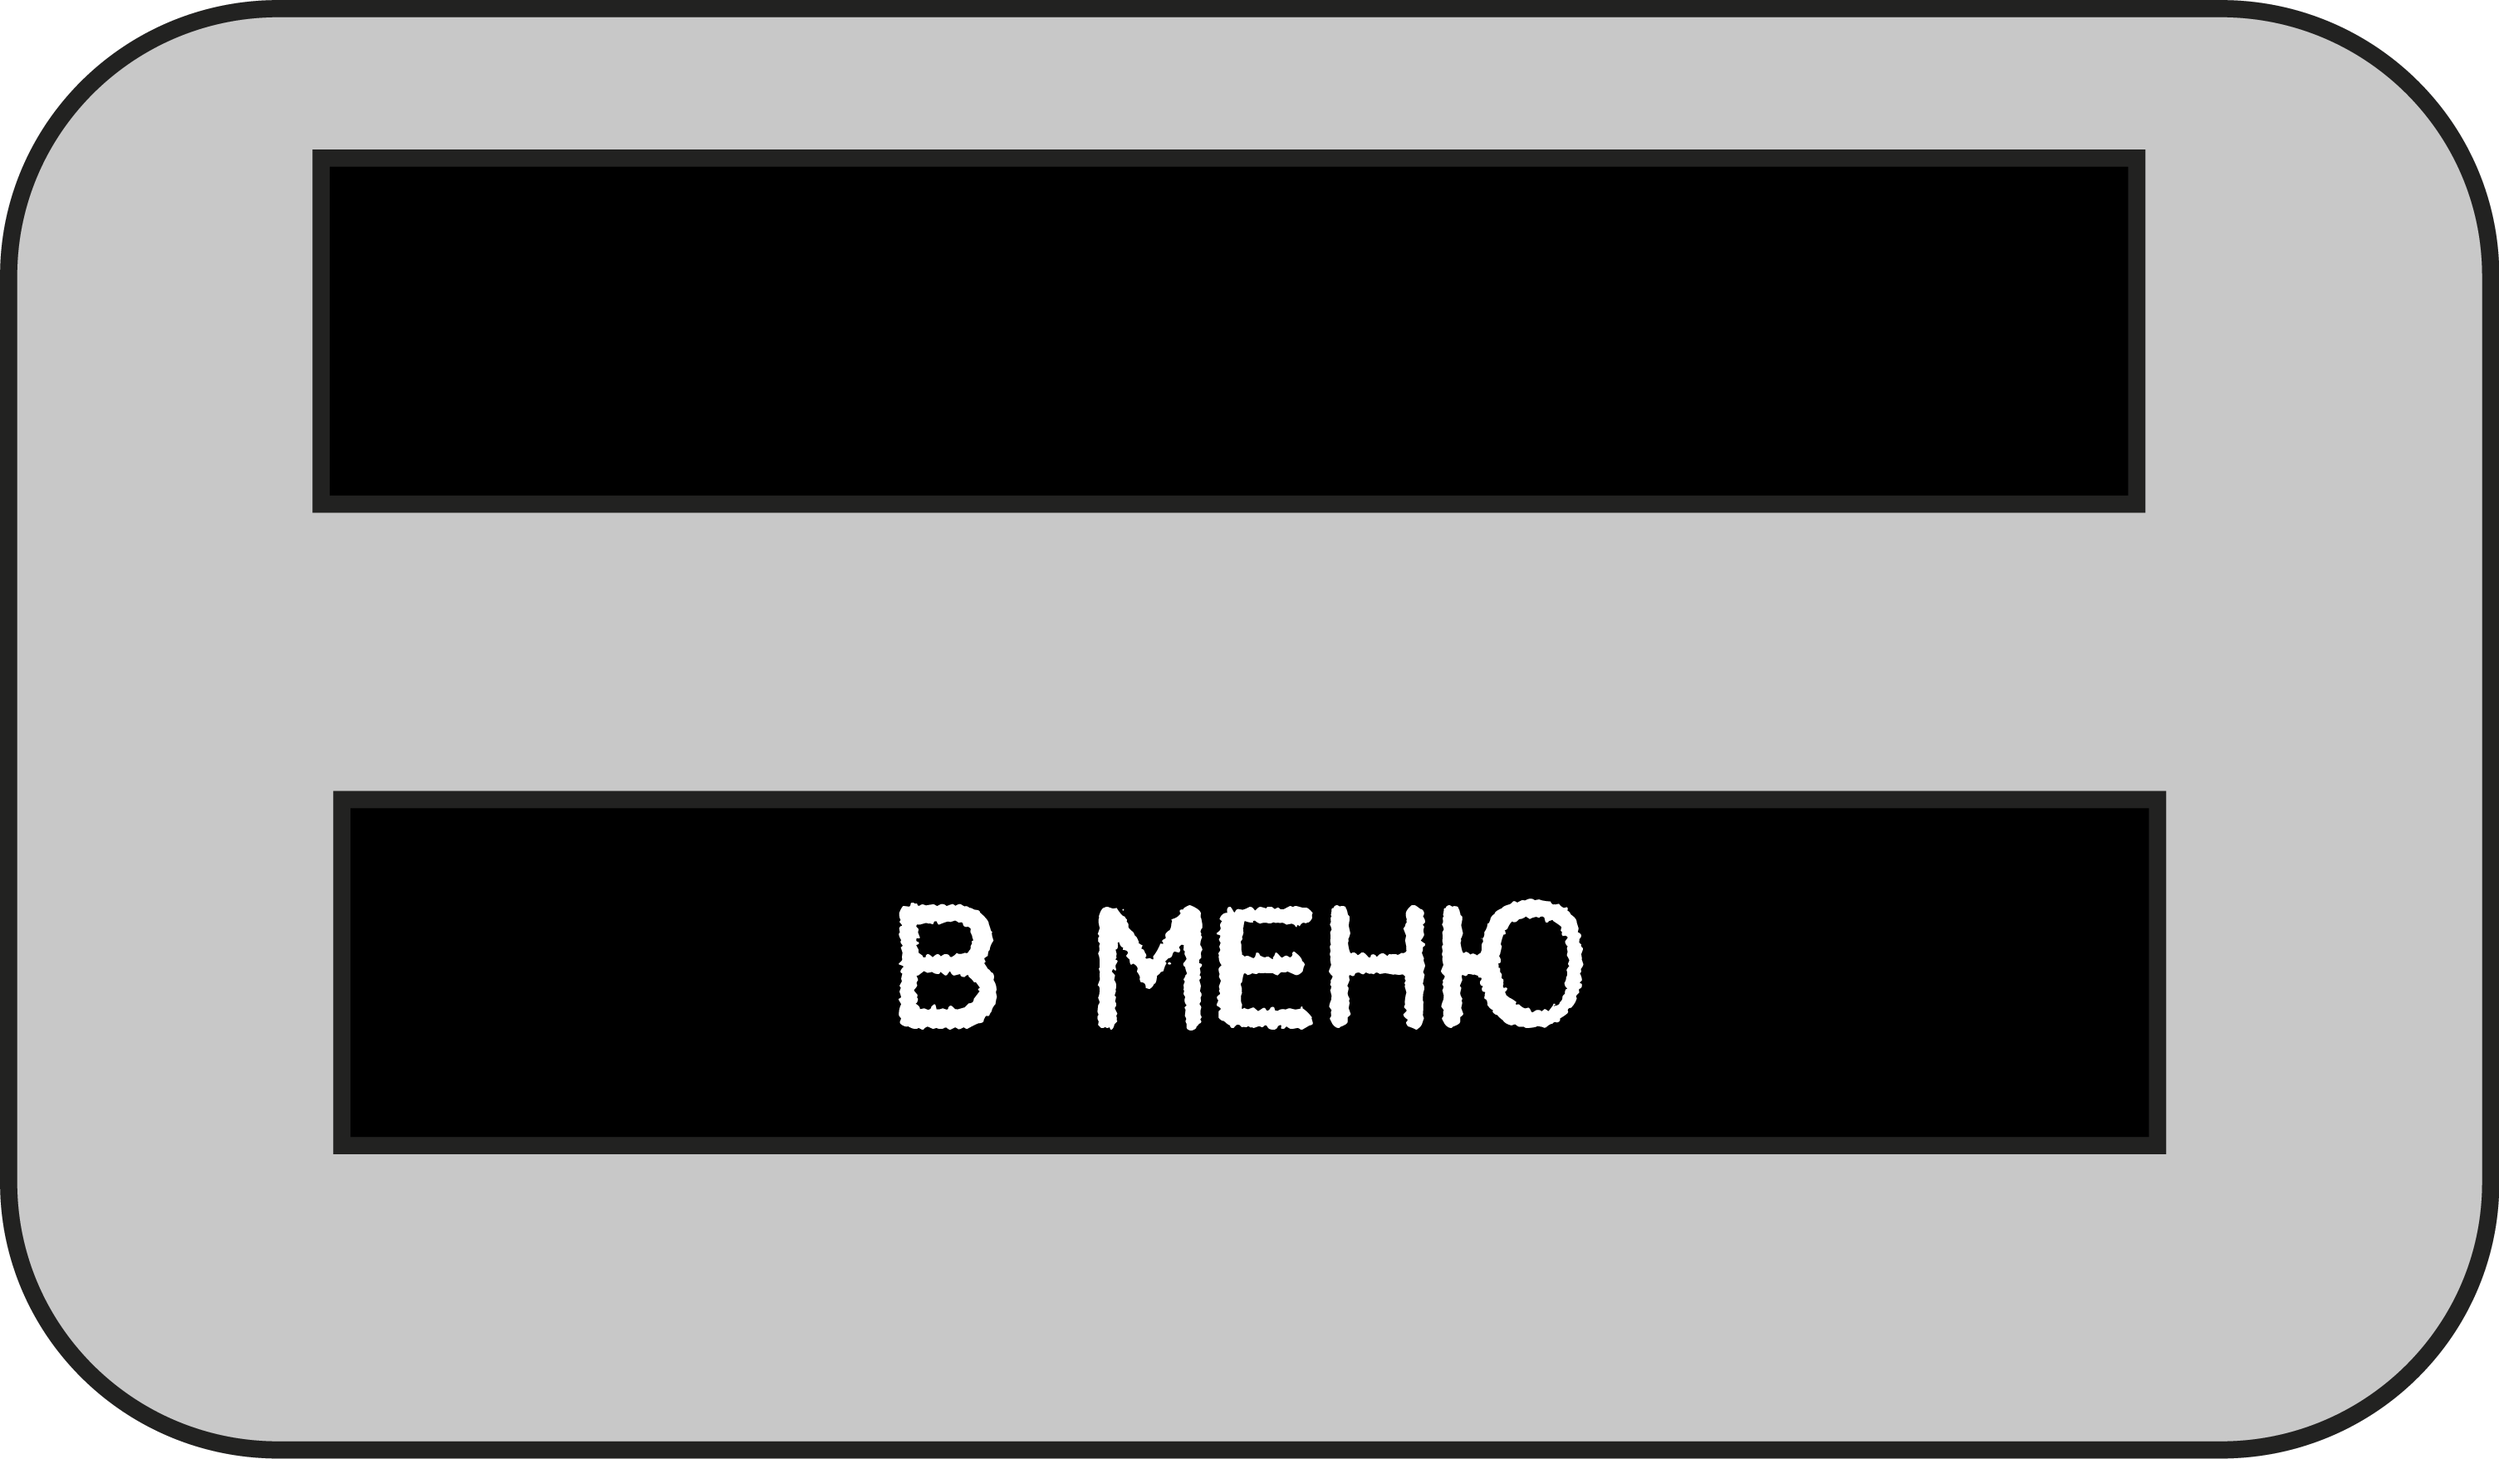
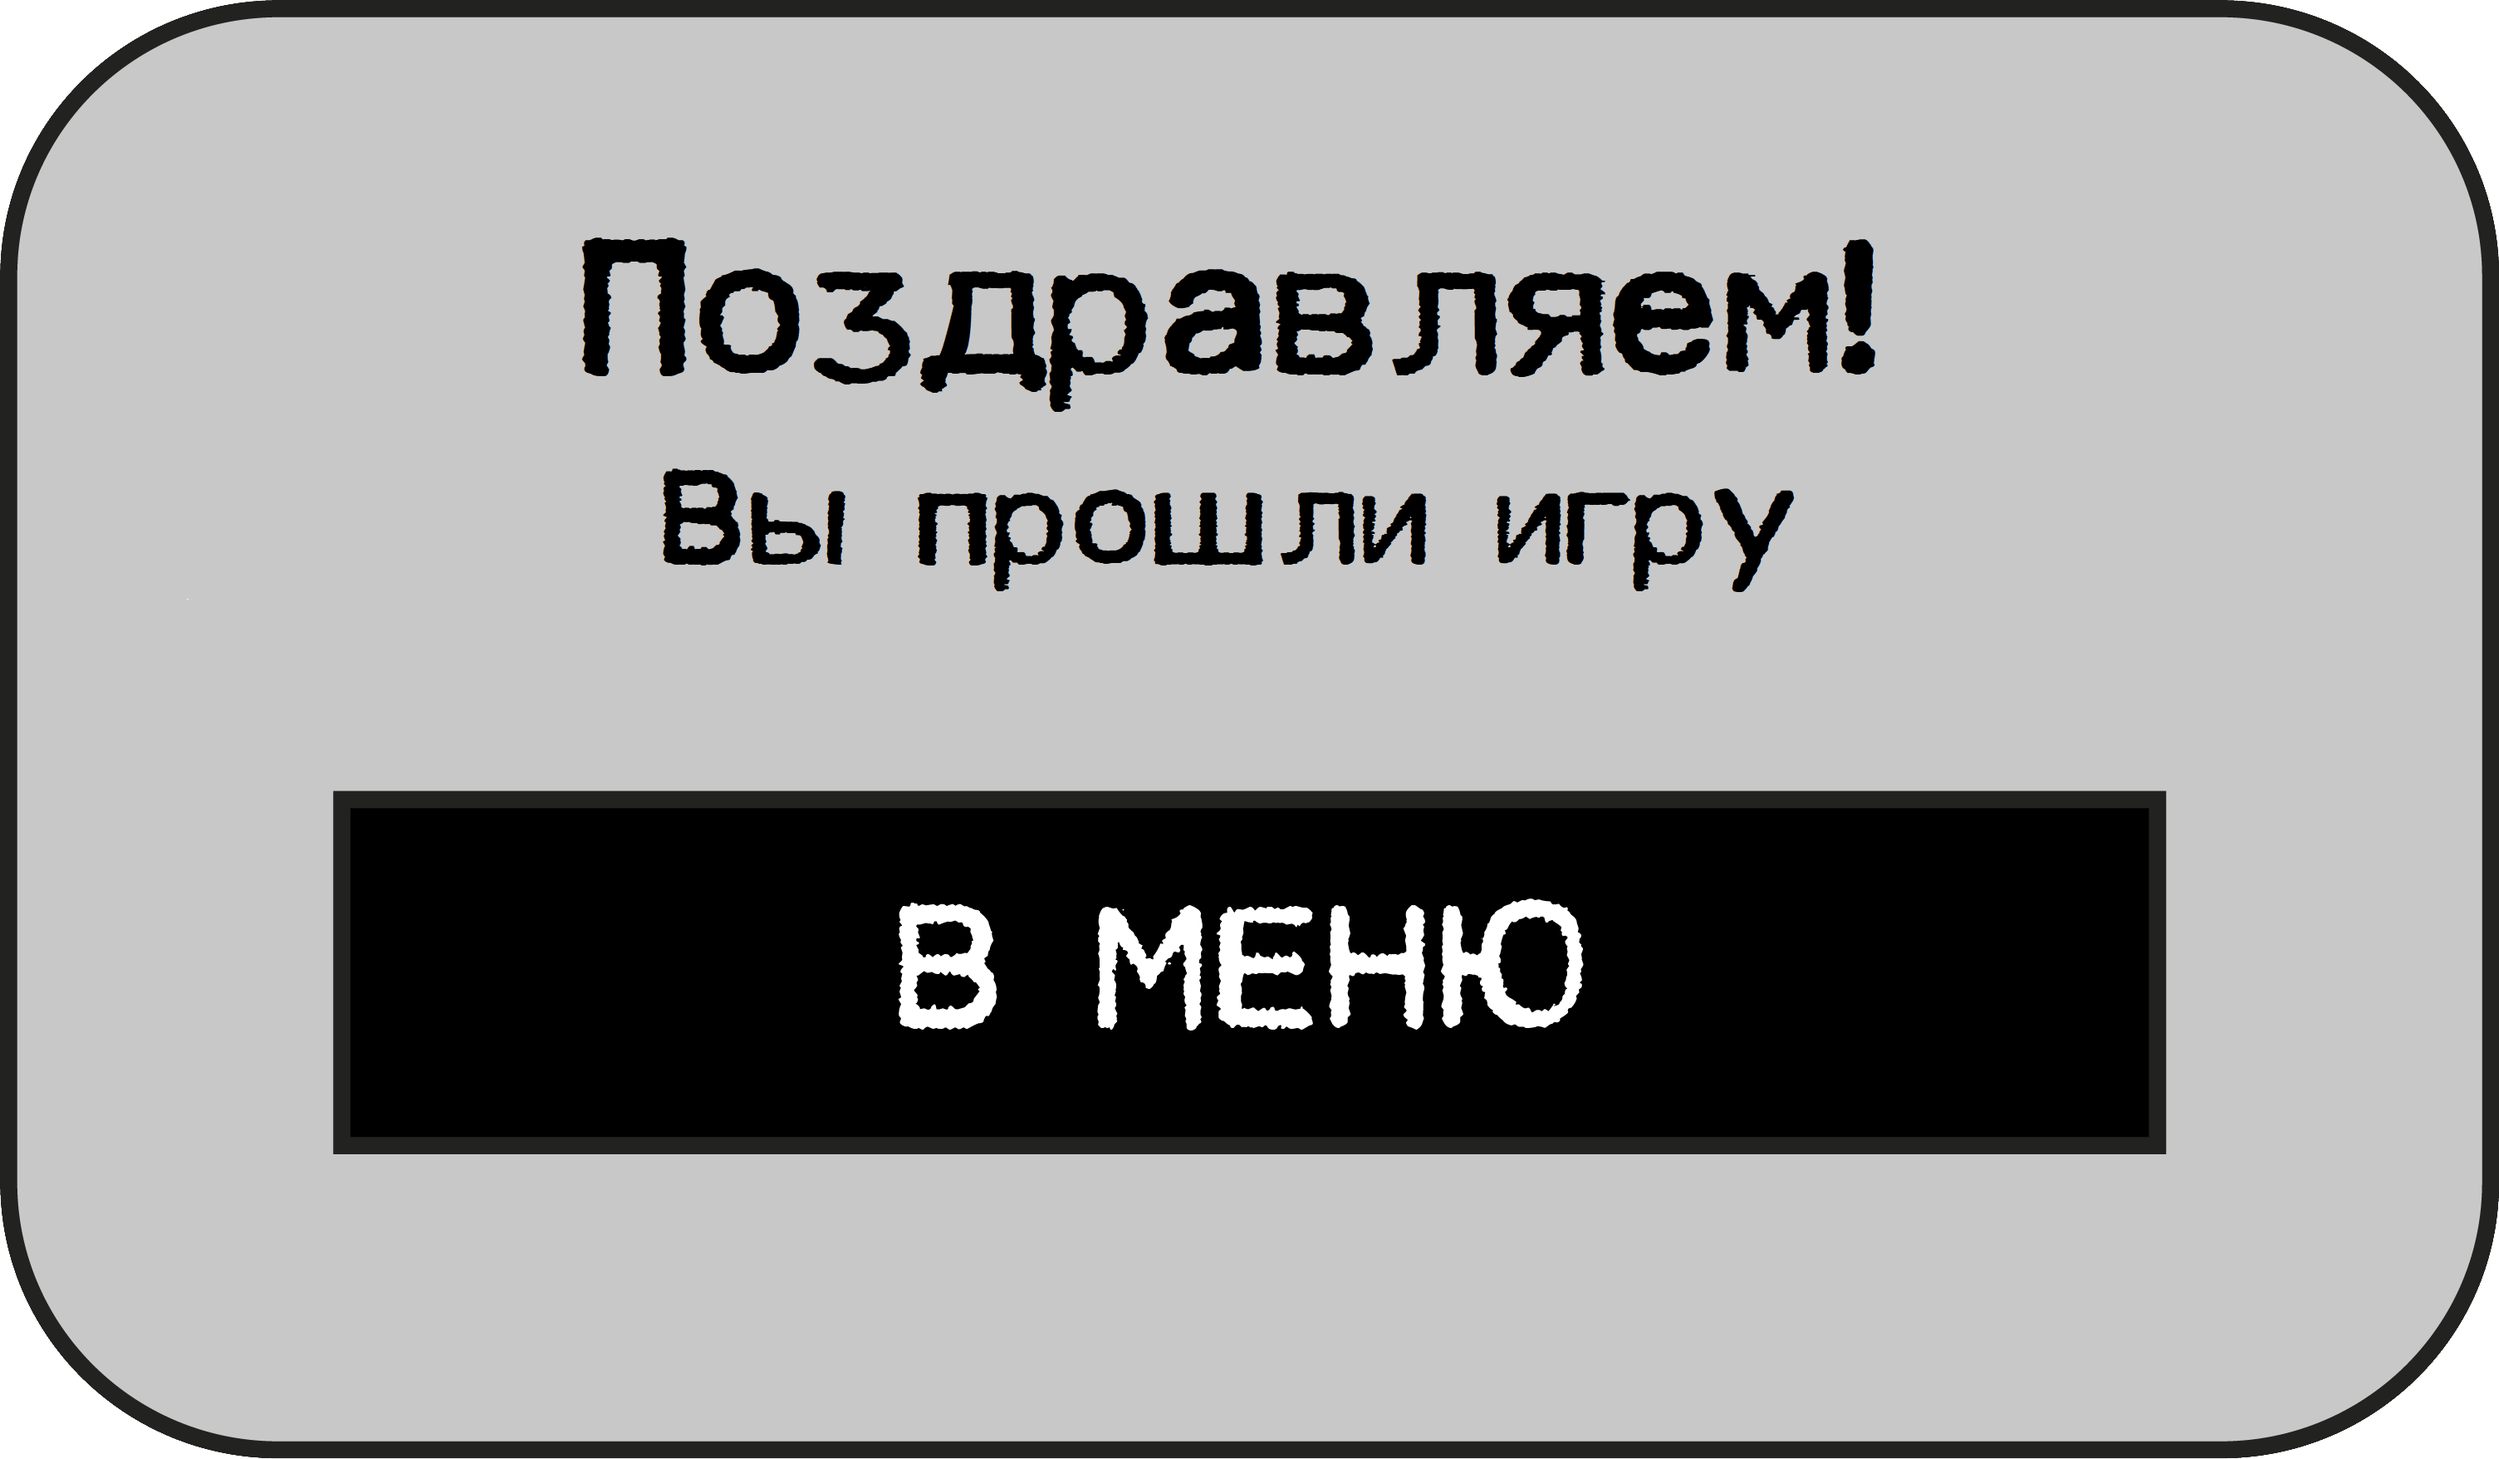
Вроде почти все, напиши что те не понравилось

Changed region(s): [[0.125, 0.0922, 0.8747, 0.3995], [0.9997, 0.7991, 1.0, 0.8298], [0.9997, 0.1537, 1.0, 0.1844]]

diff --git a/main.py b/main.py
@@ -250,8 +250,11 @@ class PauseMenu(Menu):
                                     im.get_height() // 8))
         self.rect = self.image.get_rect()
         self.rect.x, self.rect.y = 200, 150
-        self.buttons = [Button(pygame.Rect(246, 174, 276, 51), lambda: False),  # Продолжить
-                        Button(pygame.Rect(253, 269, 271, 55), start_menu)]  # В меню
+        if restart_menu:
+            self.buttons = [Button(pygame.Rect(253, 269, 271, 55), start_menu)]  # В меню
+        else:
+            self.buttons = [Button(pygame.Rect(246, 174, 276, 51), lambda: False),  # Продолжить
+                            Button(pygame.Rect(253, 269, 271, 55), start_menu)]  # В меню
 
     def update(self):
         pygame.sprite.Sprite.update(self)
@@ -435,6 +438,7 @@ def main():
     global platforms
     global numb
 
+    fon = ["Portal_fon.jpg", "Portal_fon2.jpg", "Portal_fon3.jpg"]
     level = ['map.map', 'map2.map', 'map3.map']
     hero_coords = [(50, 864), (1700, 64), (1000, 864)]
 
@@ -442,7 +446,8 @@ def main():
     screen = pygame.display.set_mode(SIZE)
     clock = pygame.time.Clock()
     pygame.display.set_caption("Portal 2D")
-    if numb == 0:
+    if numb == 0 or numb == 3:
+        numb = 0
         menu()  # запуск меню
 
     # группа спрайтов
@@ -451,10 +456,9 @@ def main():
 
     # установка уровня
     background, platforms, level_map = setup_level(level[numb], hero_coords[numb])
-    numb += 1
 
     # Фон
-    bg = pygame.image.load('data/Portal_fon.jpg')
+    bg = pygame.image.load(f'data/{fon[numb]}',)
     bg = pygame.transform.scale(bg, (850, 500))
     bd_rect = bg.get_rect()
 
@@ -474,6 +478,8 @@ def main():
     pause_btn.sprite.rect.x, pause_btn.sprite.rect.y = 20, 20
     pause_btn.rect = pause_btn.sprite.rect
     pause_group.update()
+
+    numb += 1
 
     while True:
         for event in pygame.event.get():
